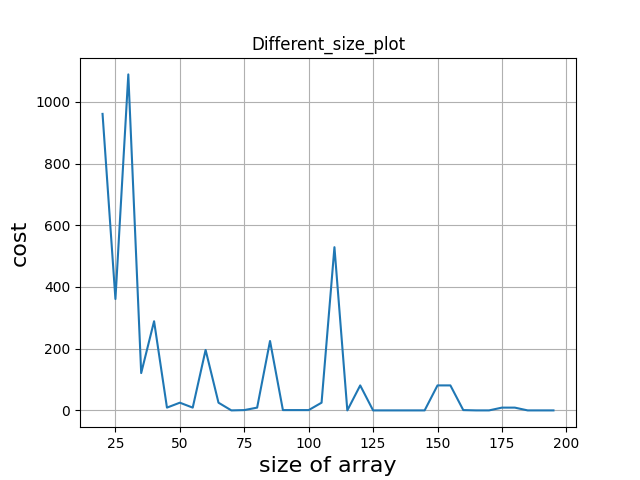
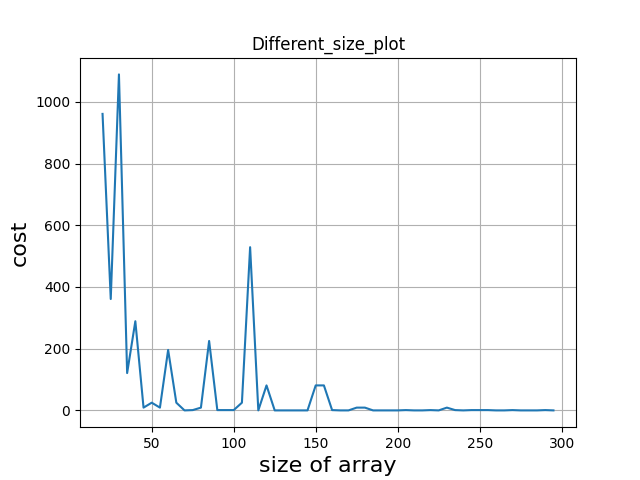
Qubo_final

diff --git a/Simulated_QUBO_Version/main.py b/Simulated_QUBO_Version/main.py
@@ -13,7 +13,7 @@ import NumberPartitionQubo as num
 import numpy as np
 import matplotlib.pyplot as plt
 
-size_arr=np.arange(20,200,5)
+size_arr=np.arange(20,300,5)
 minset=np.zeros(len(size_arr),dtype=np.int64)
 index=0
 for size in size_arr:
